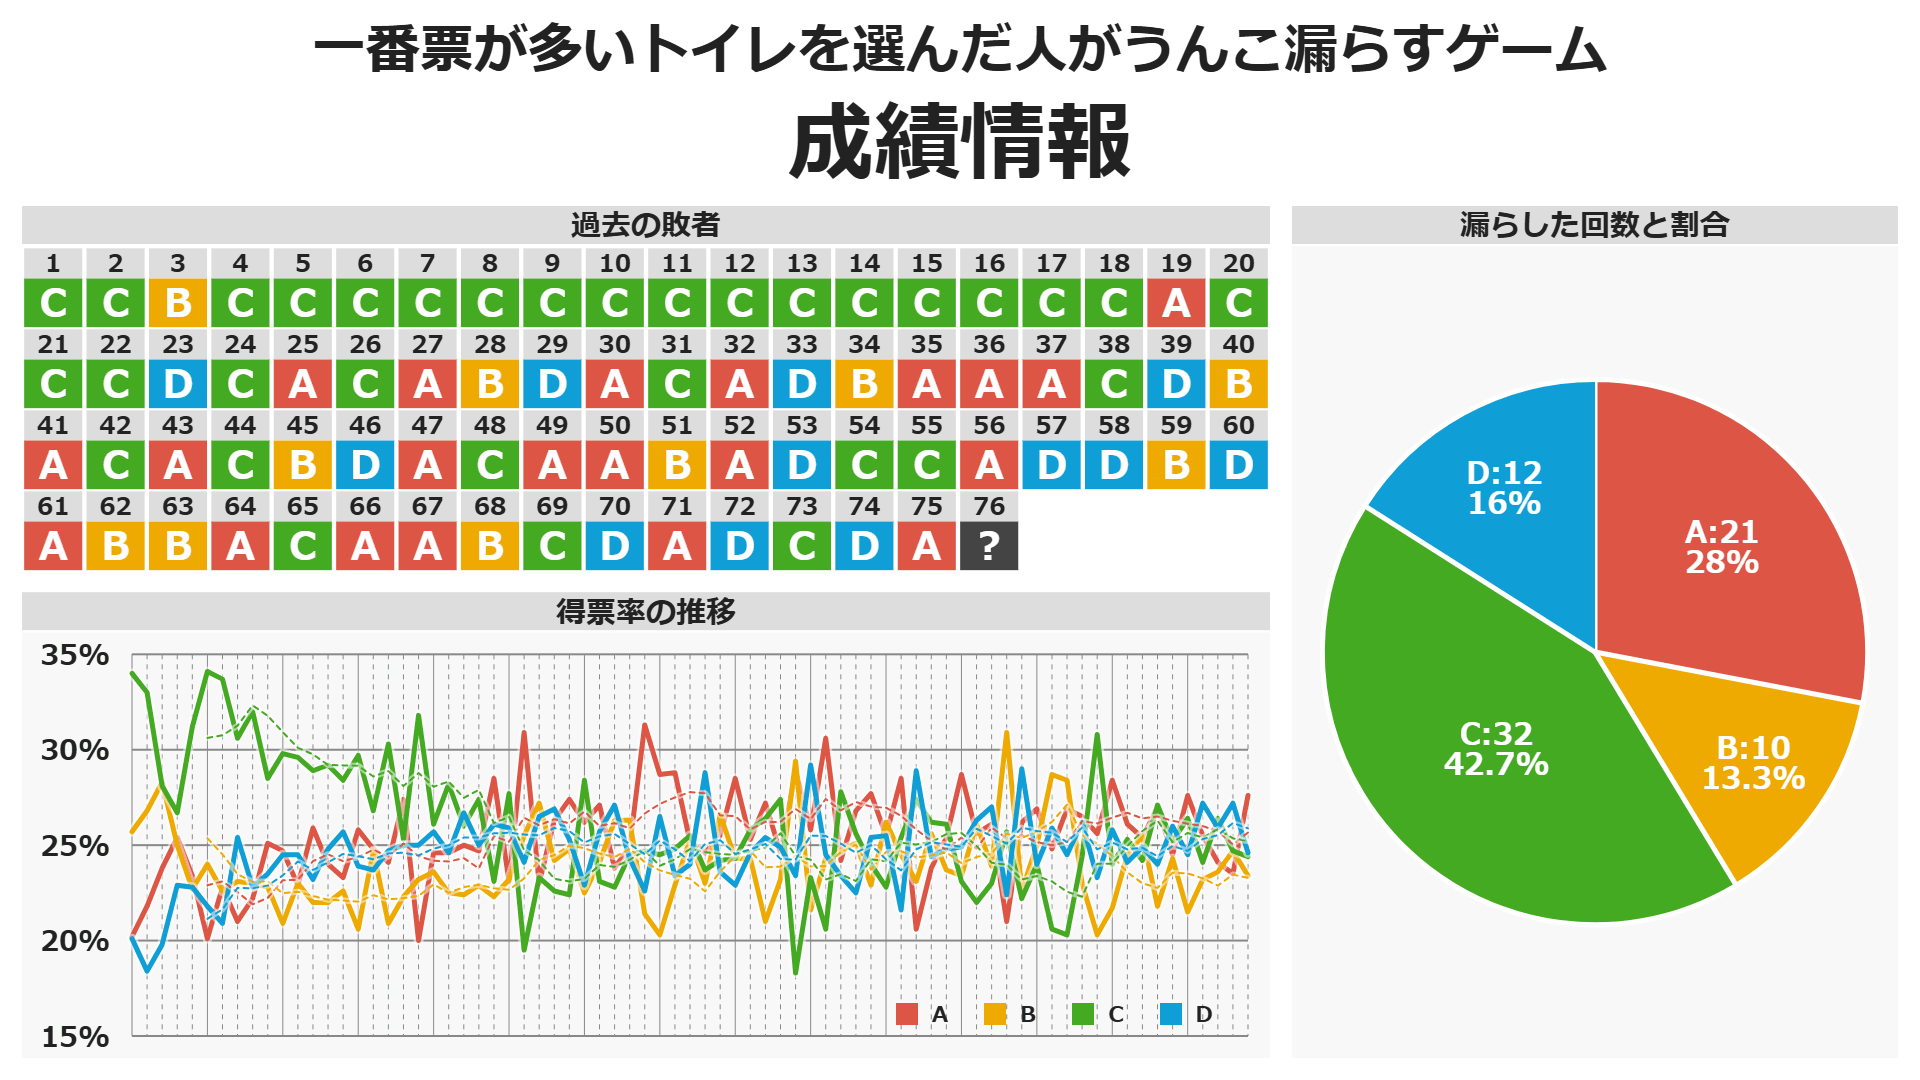
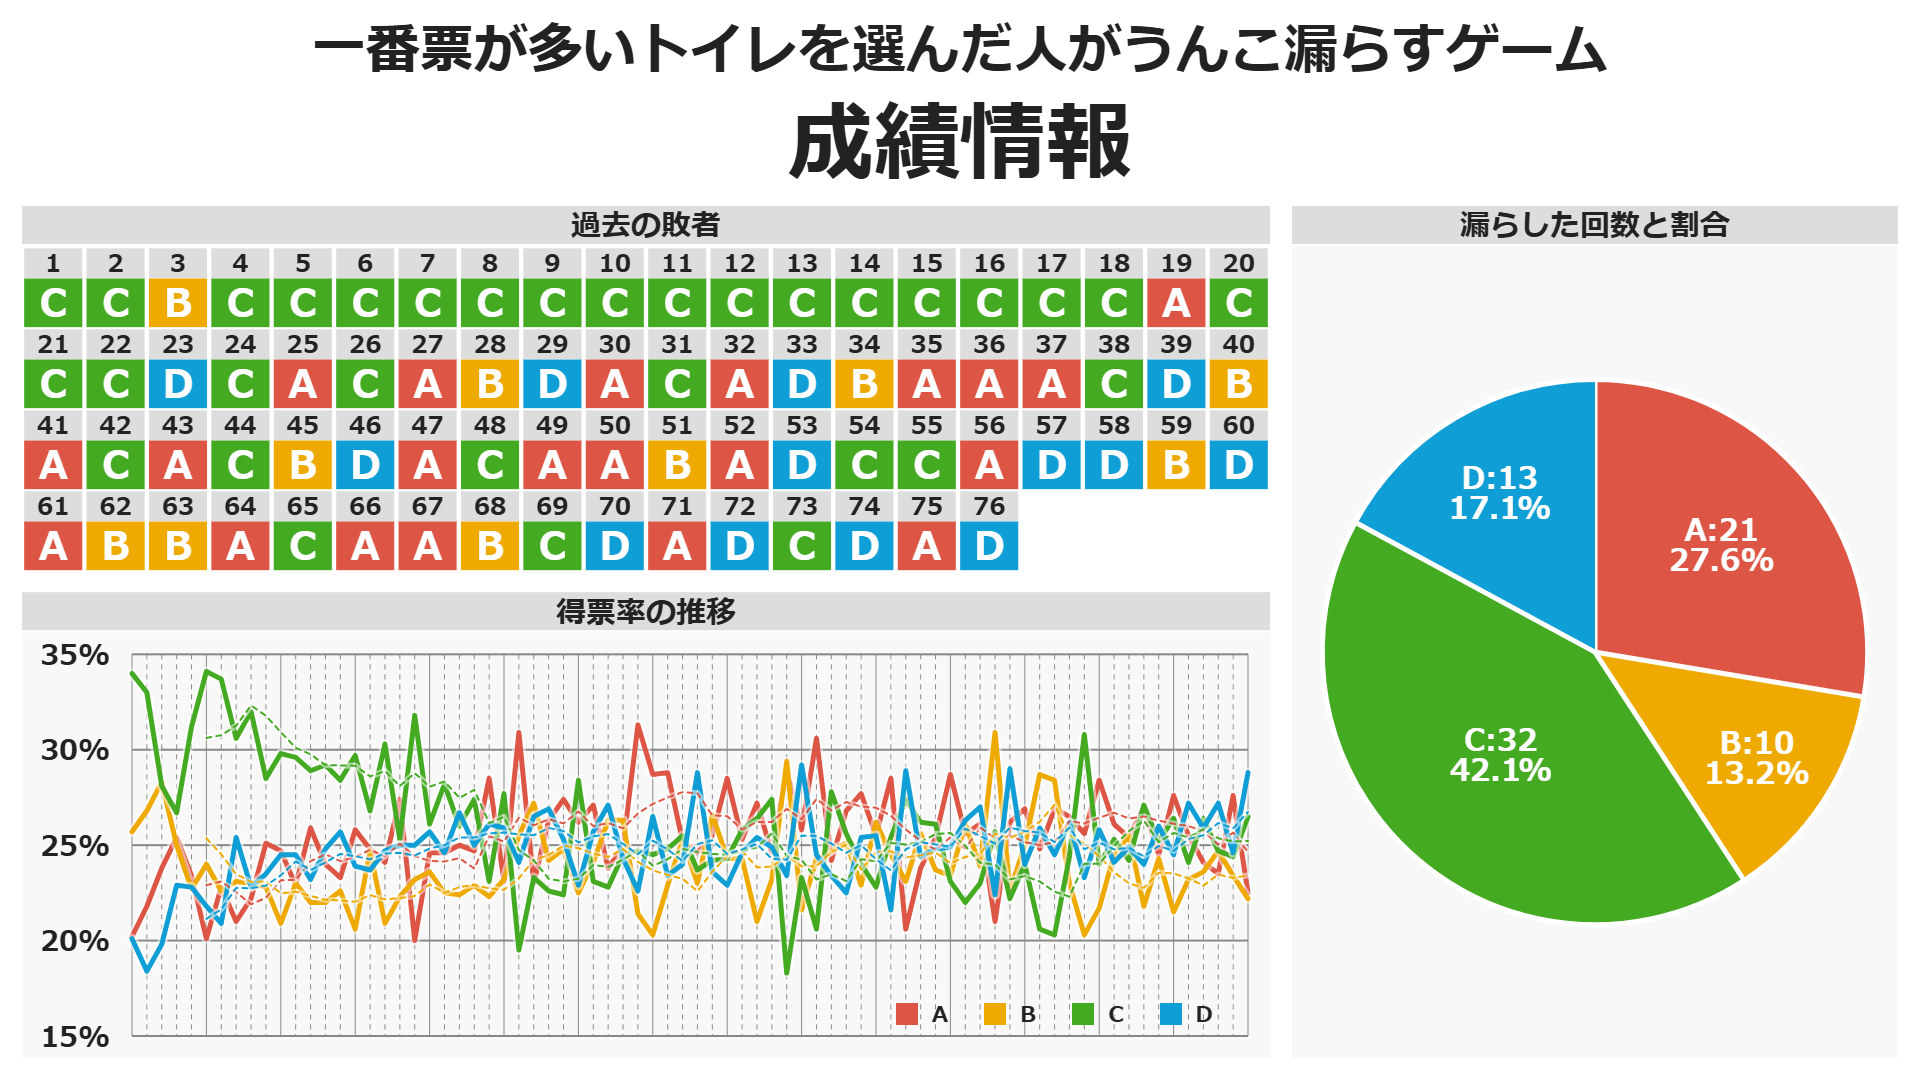
update

diff --git a/docs/index.html b/docs/index.html
@@ -12,7 +12,7 @@
     <meta property="og:url" content="https://shapoco.github.io/toilet-game/" />
     <meta property="og:title" content="4択トイレゲーム" />
     <meta property="og:description" content="一番票が多いトイレを選んだ人がうんこ漏らすゲーム" />
-    <meta property="og:image" content="https://shapoco.github.io/toilet-game/cover.png?20250503142500" />
+    <meta property="og:image" content="https://shapoco.github.io/toilet-game/cover.png?20250506170500" />
     
     <link rel="icon" href="https://shapoco.github.io/favicon192.png" sizes="192x192">
     <link rel="apple-touch-icon" href="https://shapoco.github.io/apple-touch-icon180.png" sizes="180x180">
@@ -36,8 +36,8 @@
     <style>
     </style>
     
-    <link rel="stylesheet" href="./style.css?20250503142500">
-    <script src="./toilet_game.js?20250503142500"></script>
+    <link rel="stylesheet" href="./style.css?20250506170500">
+    <script src="./toilet_game.js?20250506170500"></script>
 
     <title>4択トイレゲーム</title>
   </head>

diff --git a/docs/work.html b/docs/work.html
@@ -12,7 +12,7 @@
     <meta property="og:url" content="https://shapoco.github.io/toilet-game/" />
     <meta property="og:title" content="4択トイレゲーム" />
     <meta property="og:description" content="一番票が多いトイレを選んだ人がうんこ漏らすゲーム" />
-    <meta property="og:image" content="https://shapoco.github.io/toilet-game/cover.png?20250503142500" />
+    <meta property="og:image" content="https://shapoco.github.io/toilet-game/cover.png?20250506170500" />
     
     <link rel="icon" href="https://shapoco.github.io/favicon192.png" sizes="192x192">
     <link rel="apple-touch-icon" href="https://shapoco.github.io/apple-touch-icon180.png" sizes="180x180">
@@ -33,8 +33,8 @@
       }
     </script>
 
-    <link rel="stylesheet" href="./style.css?20250503142500">
-    <script src="./toilet_game.js?20250503142500"></script>
+    <link rel="stylesheet" href="./style.css?20250506170500">
+    <script src="./toilet_game.js?20250506170500"></script>
 
     <title>4択トイレゲーム</title>
   </head>

diff --git a/docs/toilet_game.js b/docs/toilet_game.js
@@ -77,6 +77,6 @@ const DB = [
   { date: '2025-04-13', total: 598, percent: [24.1, 23.6, 26.4, 25.9], url: 'https://x.com/shapoco/status/1911189545175122295' },
   { date: '2025-04-19', total: 507, percent: [23.5, 24.7, 24.7, 27.2], url: 'https://x.com/shapoco/status/1913457009711874328' },
   { date: '2025-04-26', total: 427, percent: [27.6, 23.4, 24.4, 24.6], url: 'https://x.com/shapoco/status/1915950318497726670' },
-  { date: '2025-05-03', total: 0, percent: null, url: null },
+  { date: '2025-05-03', total: 555  , percent: [22.5, 22.2, 26.5, 28.8], url: 'https://x.com/shapoco/status/1918538250576380238' },
   //{ date: '2025-xx-xx', total: 0, percent: null, url: null },
 ];
